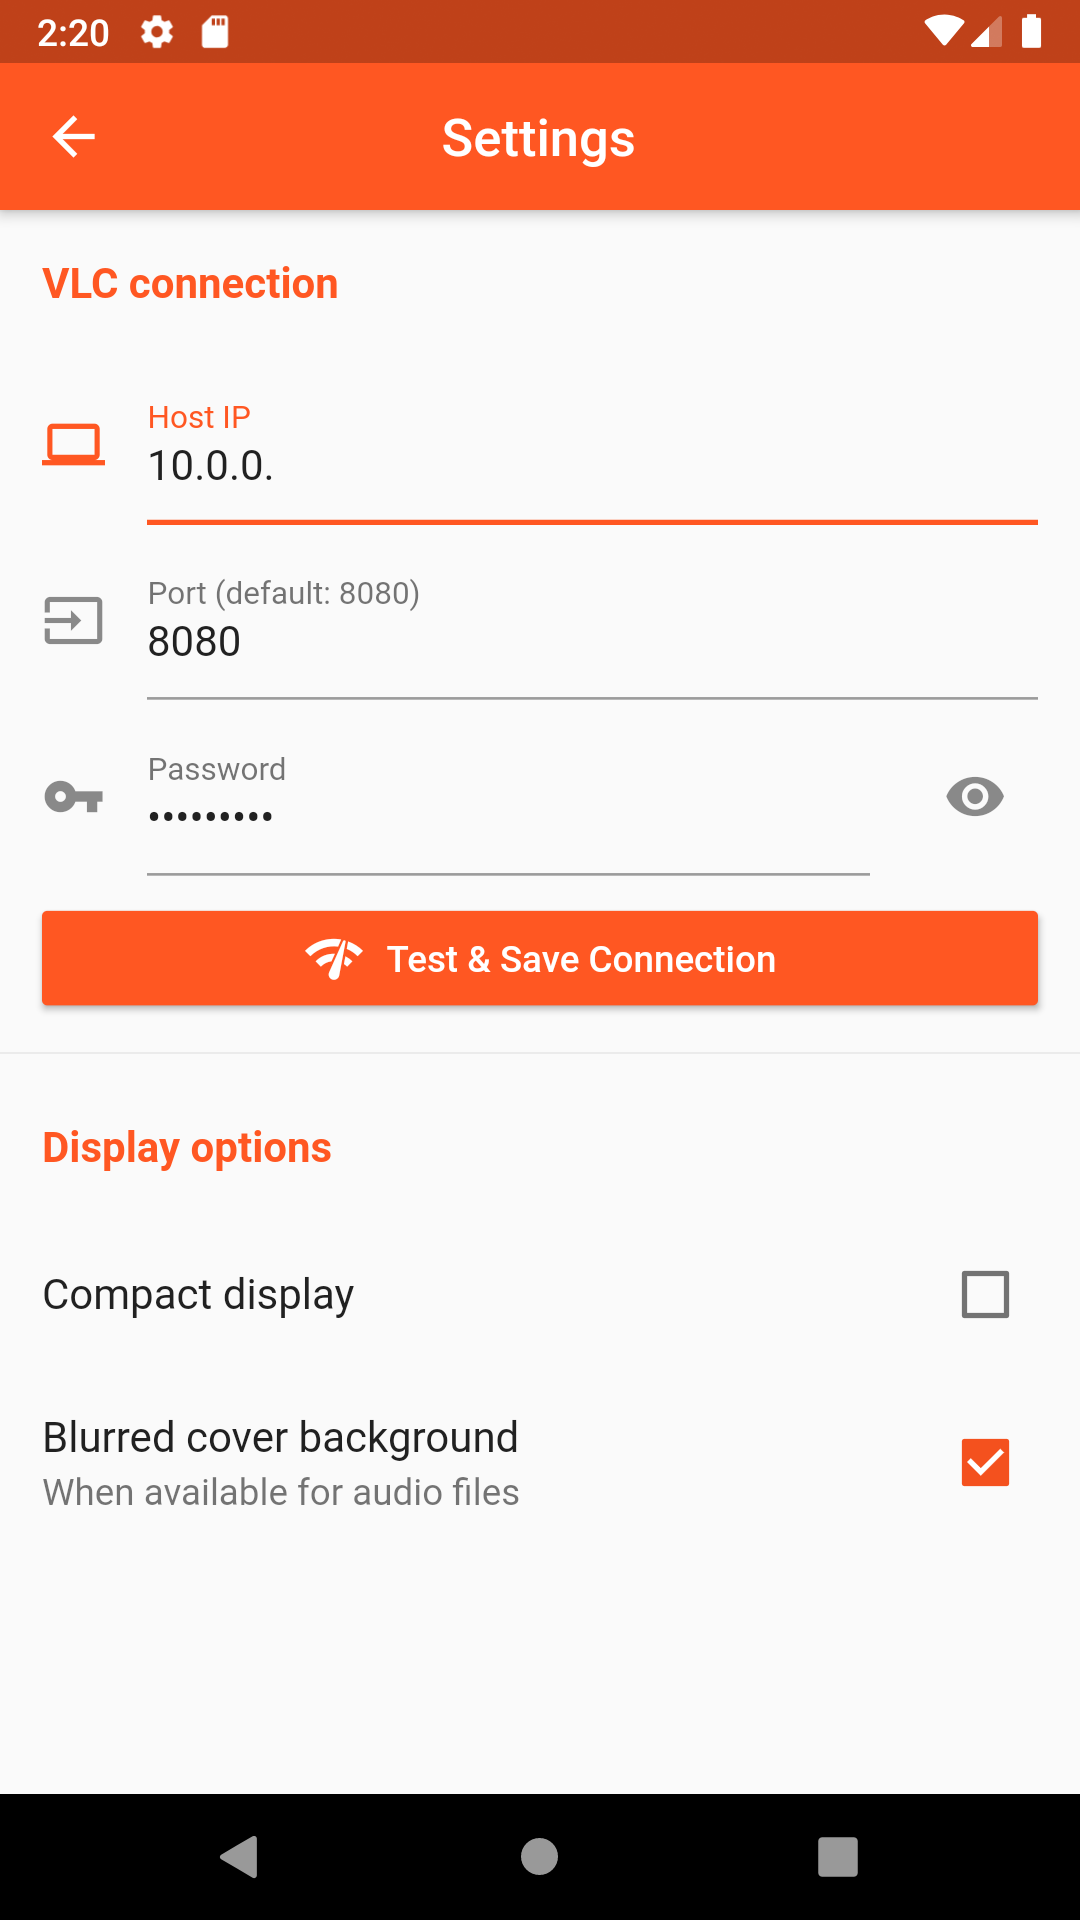
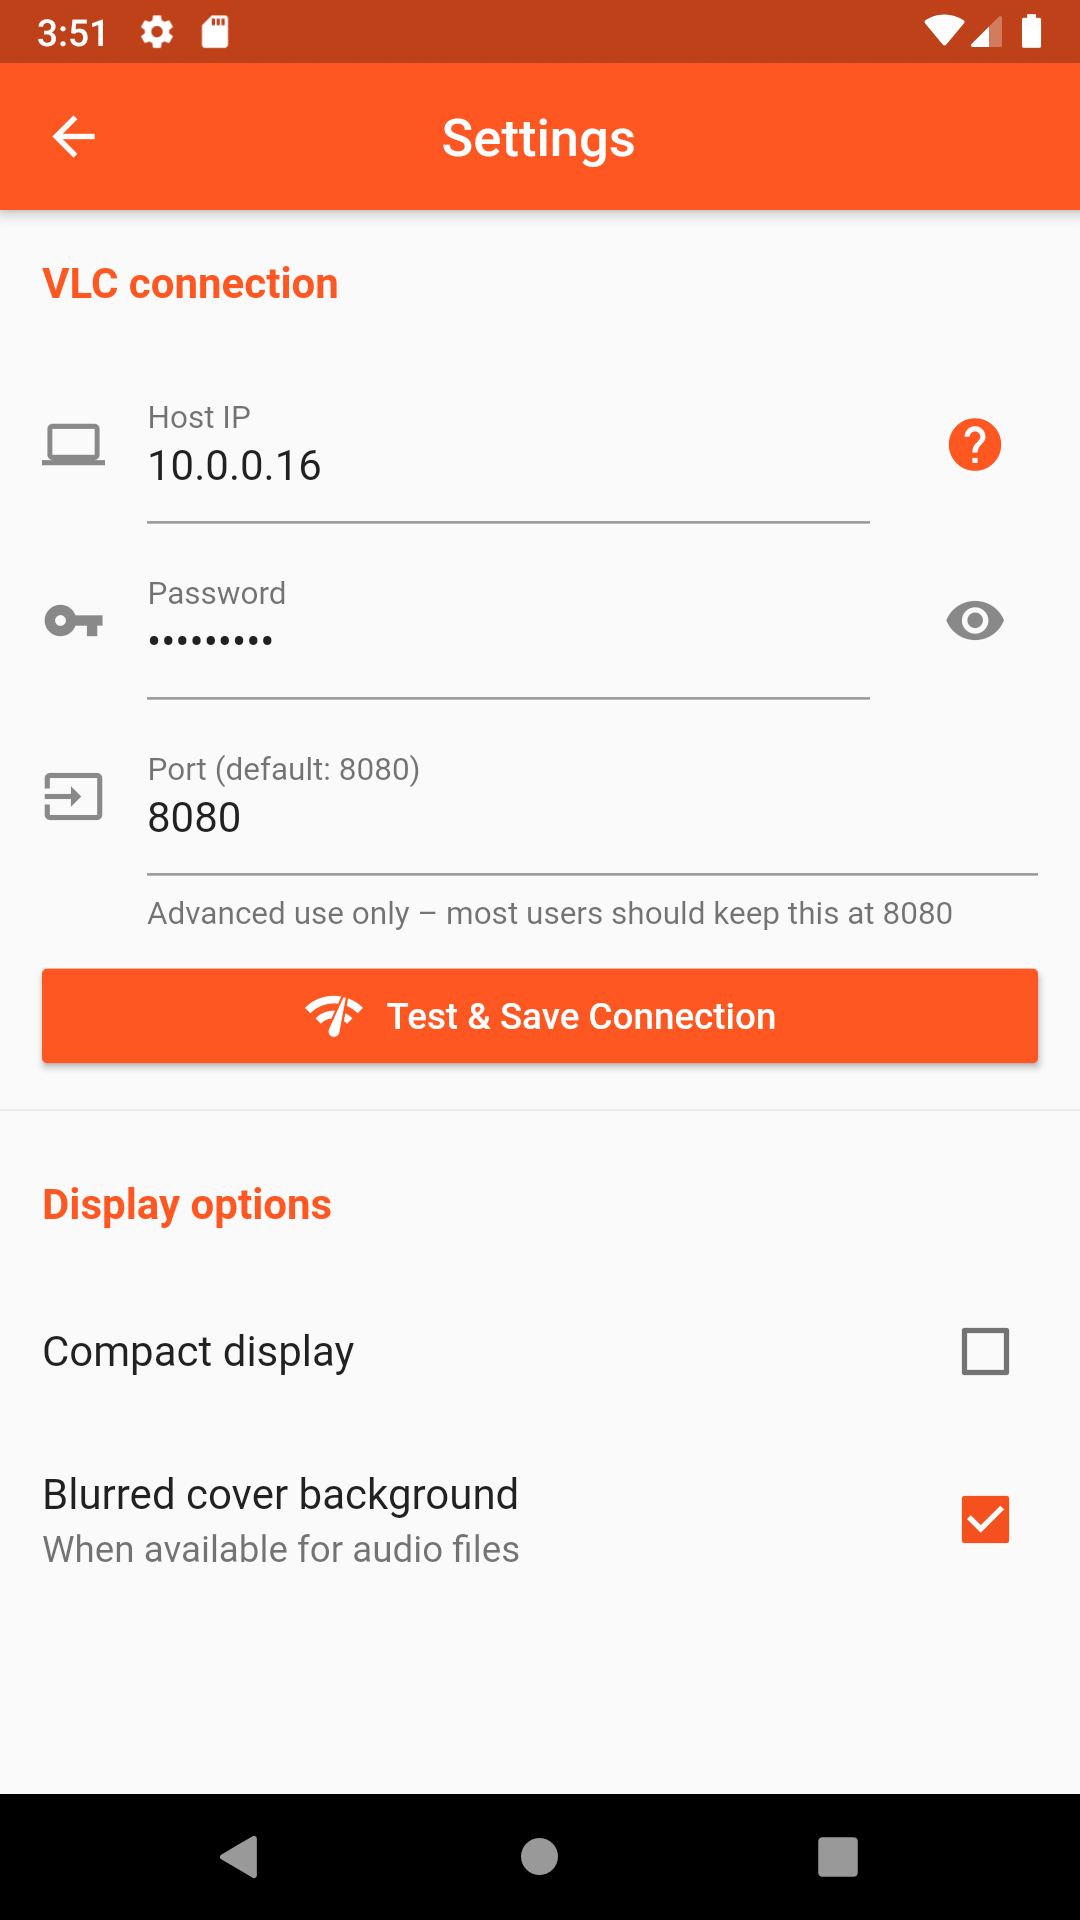
Update screenshots

diff --git a/README.md b/README.md
@@ -77,3 +77,5 @@ If VLC Remote was able to successfully connect, the connection info will be save
 ### Settings
 
 ![](screenshots/settings.png)
+
+![](screenshots/host-ip-guide-os.png)
